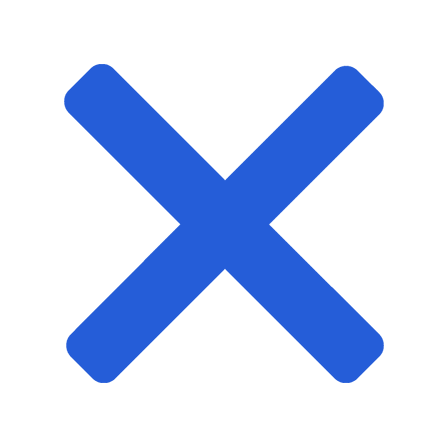
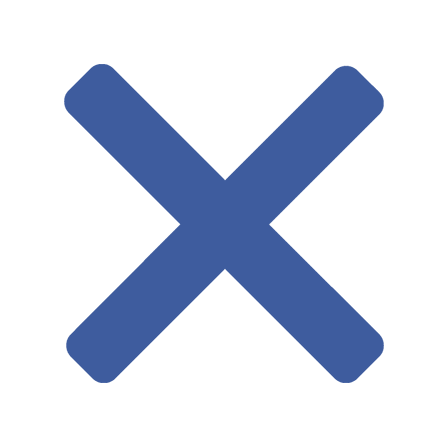
slide in

Changed region(s): [[0.125, 0.125, 0.875, 0.875]]

diff --git a/styles/main-styles.css b/styles/main-styles.css
@@ -165,7 +165,7 @@ header .navbar_desktop .buttons-right{
     border: 2px solid #FFF;
     padding: 16px 16px;
     font-size: 20px;
-    color: #255DD8;
+    color: #3E5C9E;
     border-radius: 3px;
     position: relative;
     top: 0px;
@@ -223,7 +223,7 @@ header .navbar_desktop .buttons-right{
 
 .middle_content .title_and_button .learn_more:hover, .middle_content .title_and_button .learn_more:focus {
     background: #FFF;
-    color: #255DD8;
+    color: #3E5C9E;
     opacity: 1;
 }
 
@@ -292,12 +292,11 @@ footer .social_icons_list li a:hover{
     -ms-transition: left 0.2s ease-in-out;
     -o-transition: left 0.2s ease-in-out;
     transition: left 0.2s ease-in-out;
-    display: none;
 }
 
 .drawer_open{
-	left: 0;
-	display: block;
+	width: 100%;
+    left: 0;
 }
 
 .mobile_overlay .header_container{
@@ -332,7 +331,7 @@ footer .social_icons_list li a:hover{
 }
 
 .mobile_overlay .mobile_buttons li a{
-	color: #255DD8;
+	color: #3E5C9E;
 	text-decoration: none;
 }
 
